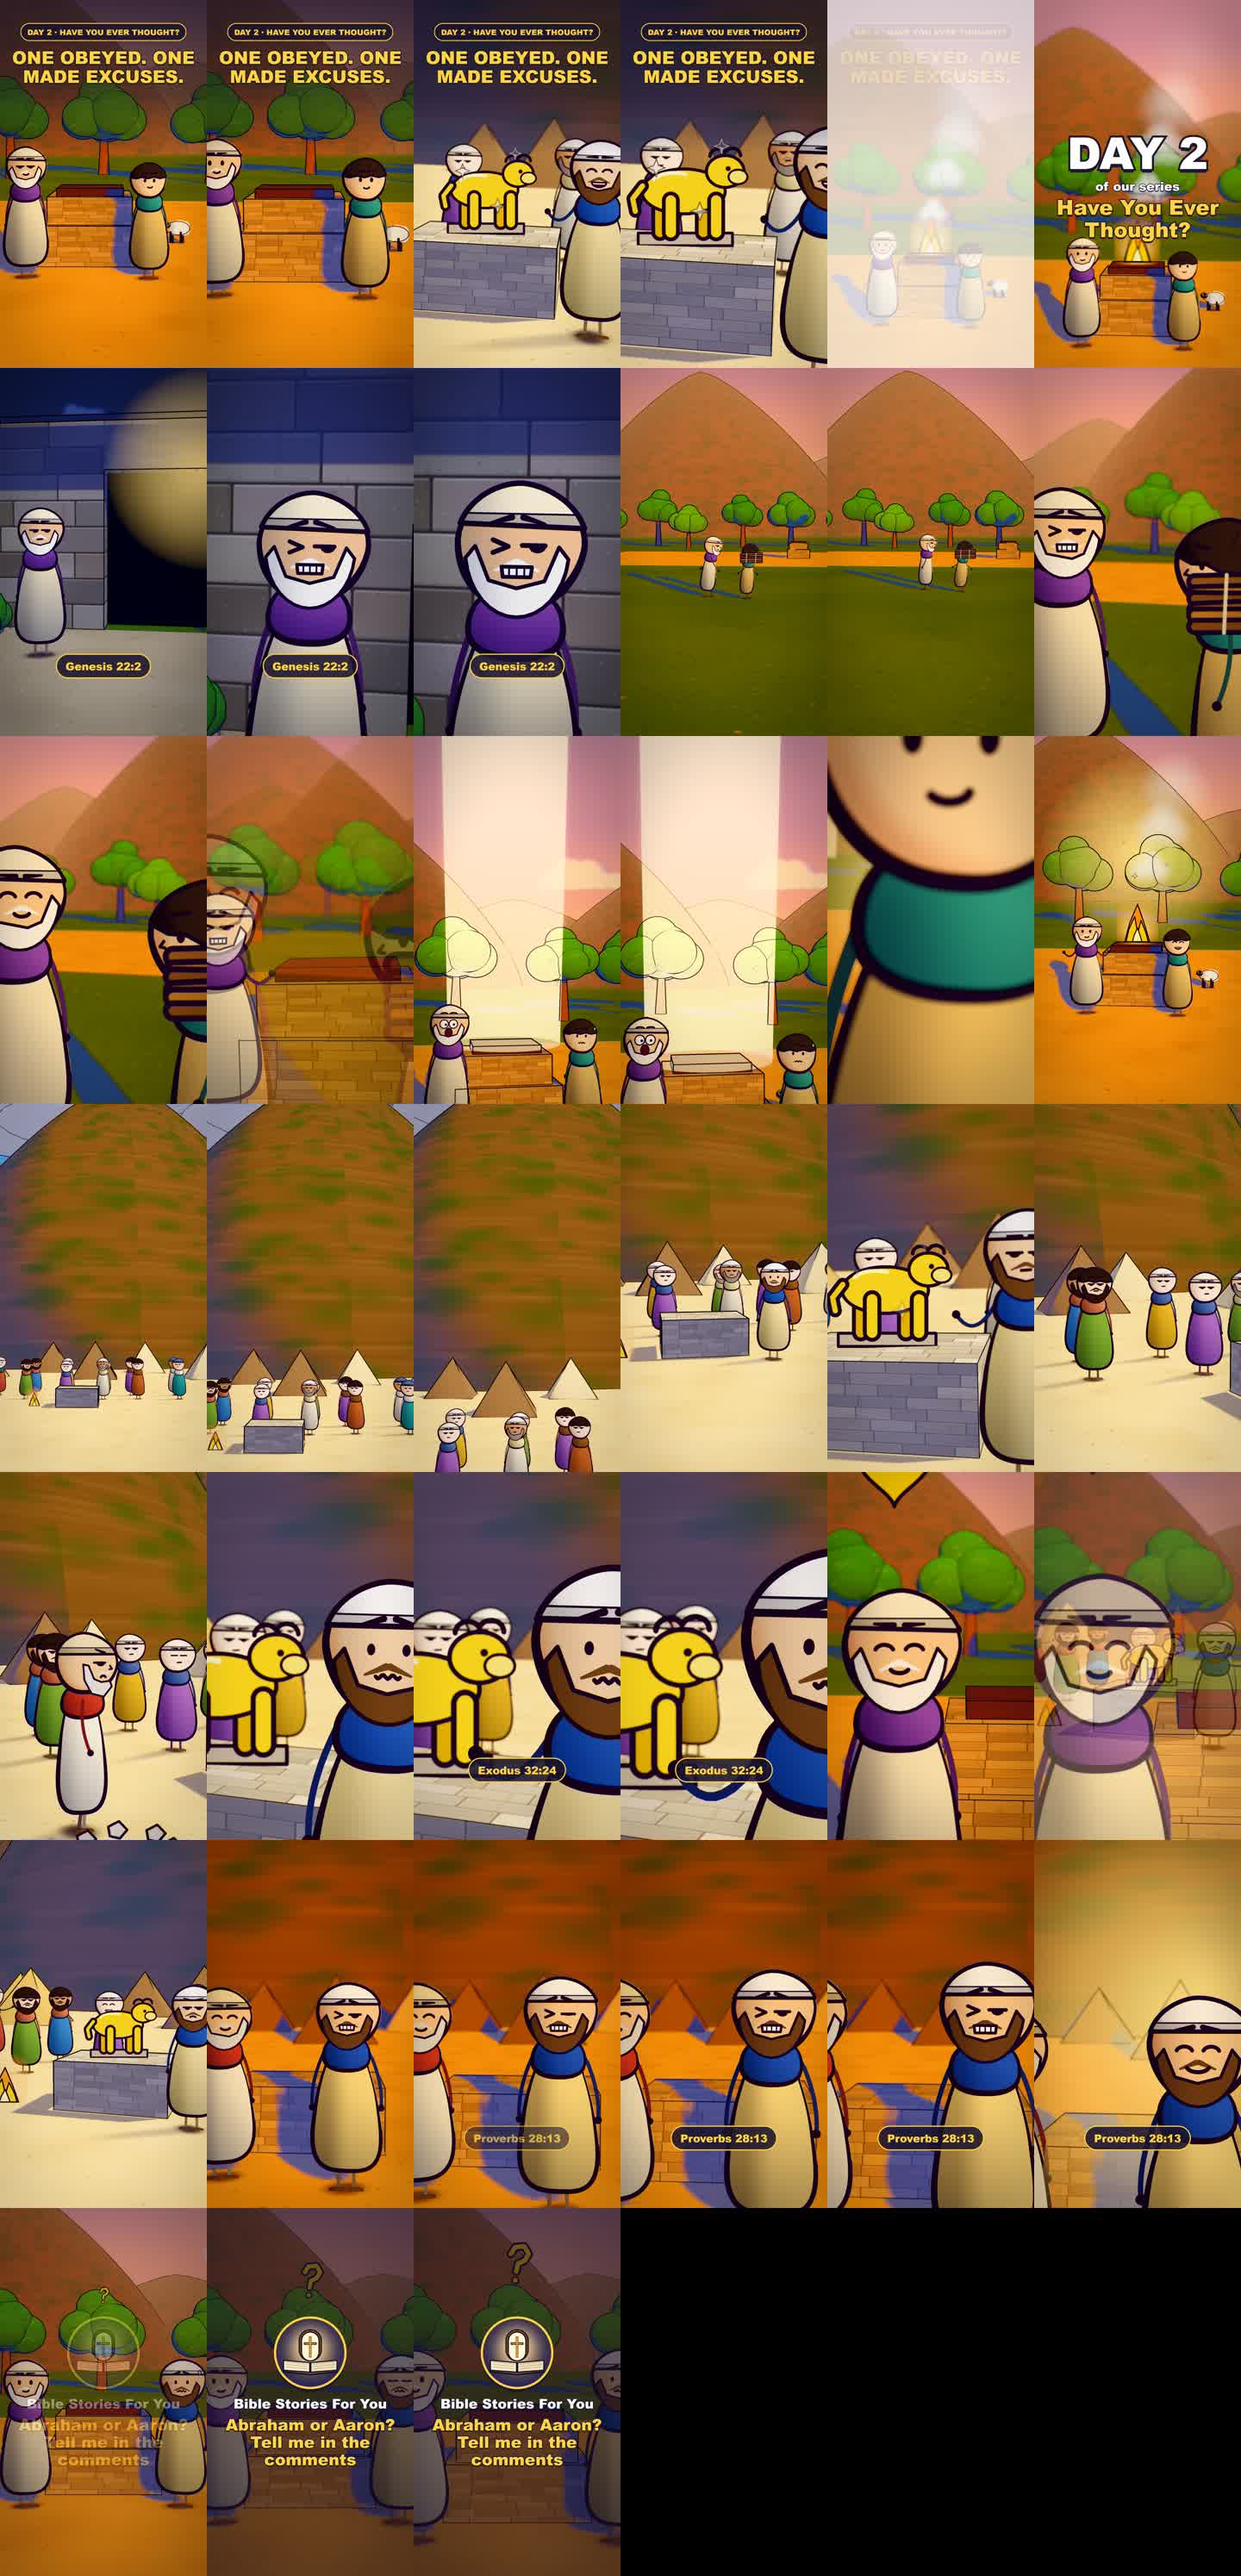
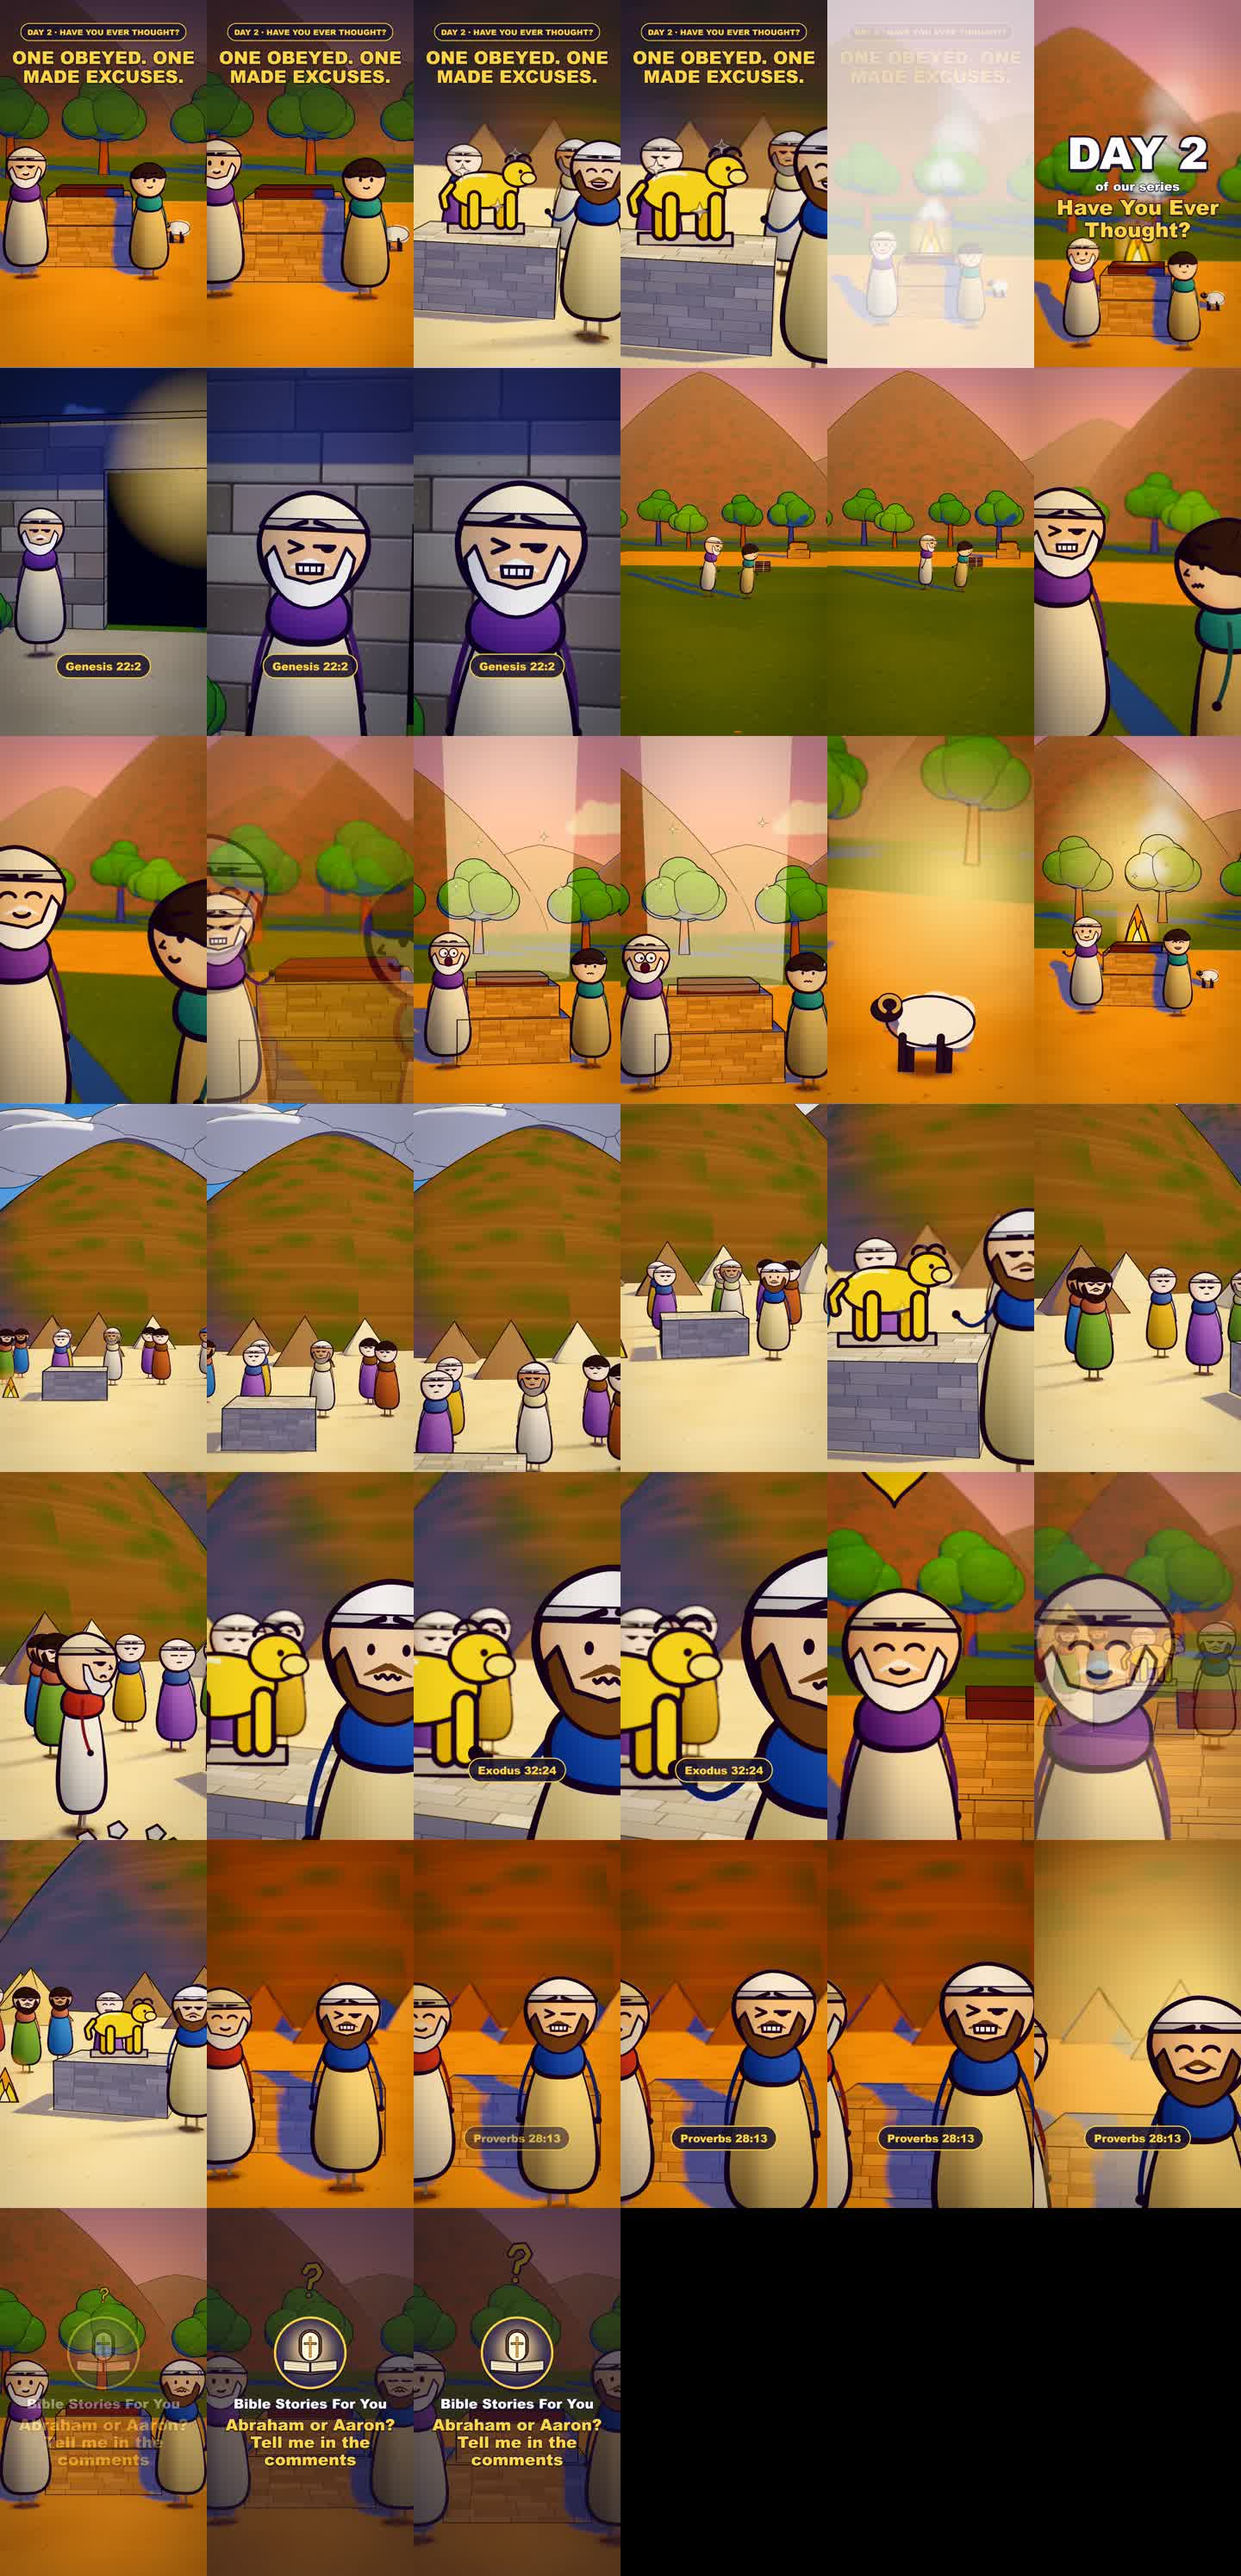
Job 012 done: two-mountains EN re-render, all four shot fixes verified

diff --git a/reports/STATUS.md b/reports/STATUS.md
@@ -69,4 +69,11 @@ WORKER READY os=Windows 11 Home 10.0.26300 gpu=NVIDIA GeForce RTX 4060 Laptop GP
   (b) ~t=26-28 s (row 3 cols 3-4): bright white-washed flash shot with tree outlines;
   (c) ~t=30 s (row 3 col 5): extreme close-up of a face/neck, head cut off;
   (d) ~t=56 s (row 5 col 6): ghosted dissolve between two shots.
+- DONE 012 two-mountains ENGLISH re-render (replaces 011): duration=77.90s res=1440x2560, render_min=14.52 (871.5 s, 2337 frames, --concurrency=4), sheet=reports/two-mountains_sheet.jpg. Volume mean -18.5 dB / max -1.1.
+  Compared old (job 011) vs new at t=22, 25, 29, 31, 36, 38 s: all four planner fixes confirmed.
+  - ~25 s: Isaac's face is visible, the wood bundle no longer covers it (~22 s bundle is held lower);
+  - ~29-31 s: the angel light is a soft glow with the scene readable, no white-out;
+  - ~31 s: the ram close-up shows the ram clearly, not blocked by Isaac;
+  - ~38 s: the Sinai wide shot has a smaller mountain with the crowd visible.
+  Other sheet tiles unchanged, no black frames, no new problems. Replaced FINAL VIDEOS\Two Mountains - Day 2 - ENGLISH.mp4.
 - Jobs 001-008 are done. FINAL VIDEOS\ holds the current EN + HI versions of all three reels. Waiting for new jobs.

diff --git a/jobs/done.md b/jobs/done.md
@@ -10,3 +10,4 @@
 009
 010
 011
+012
